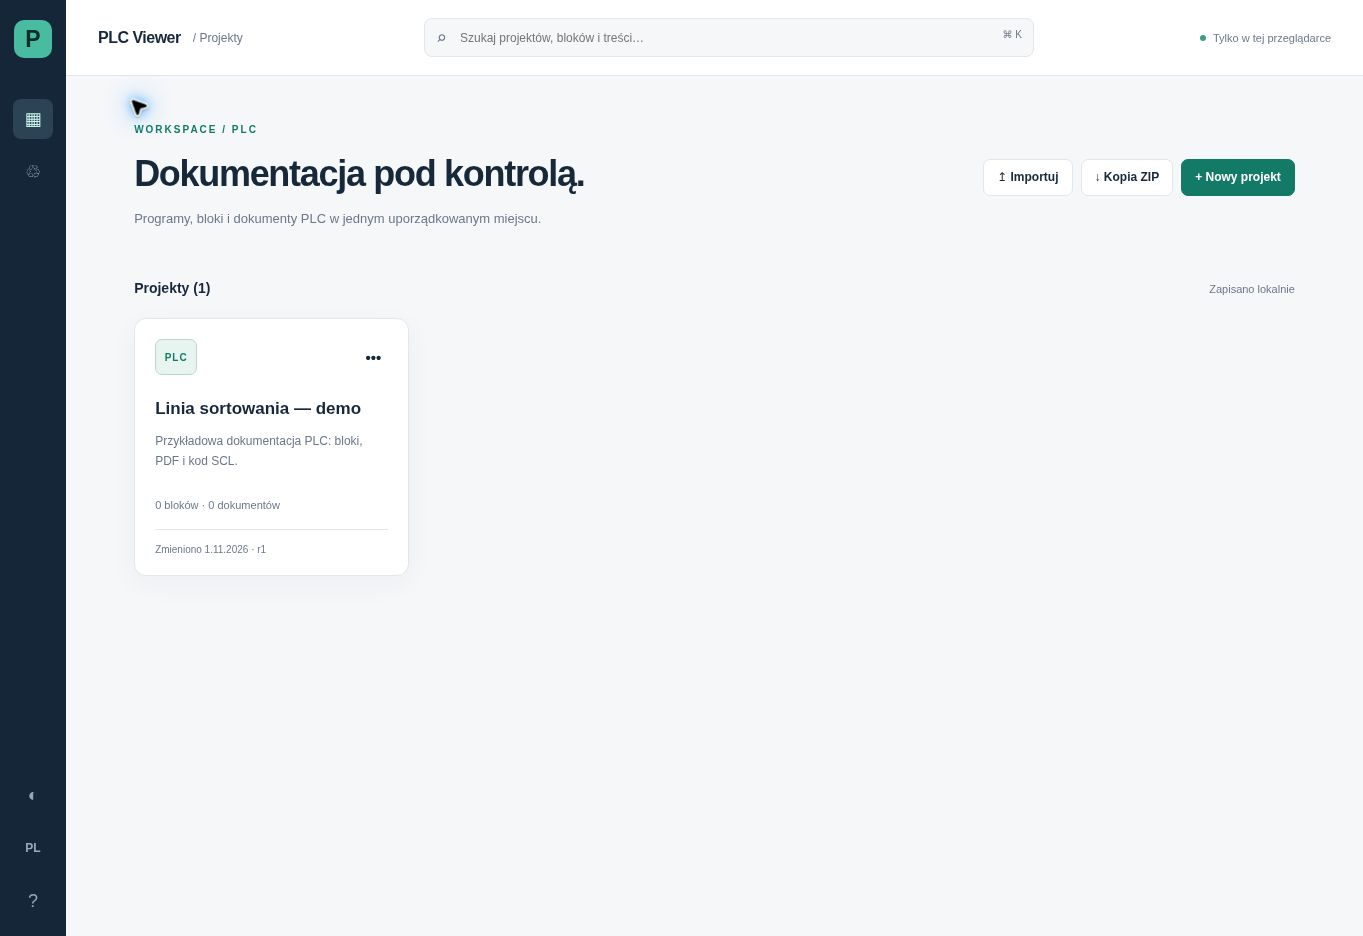
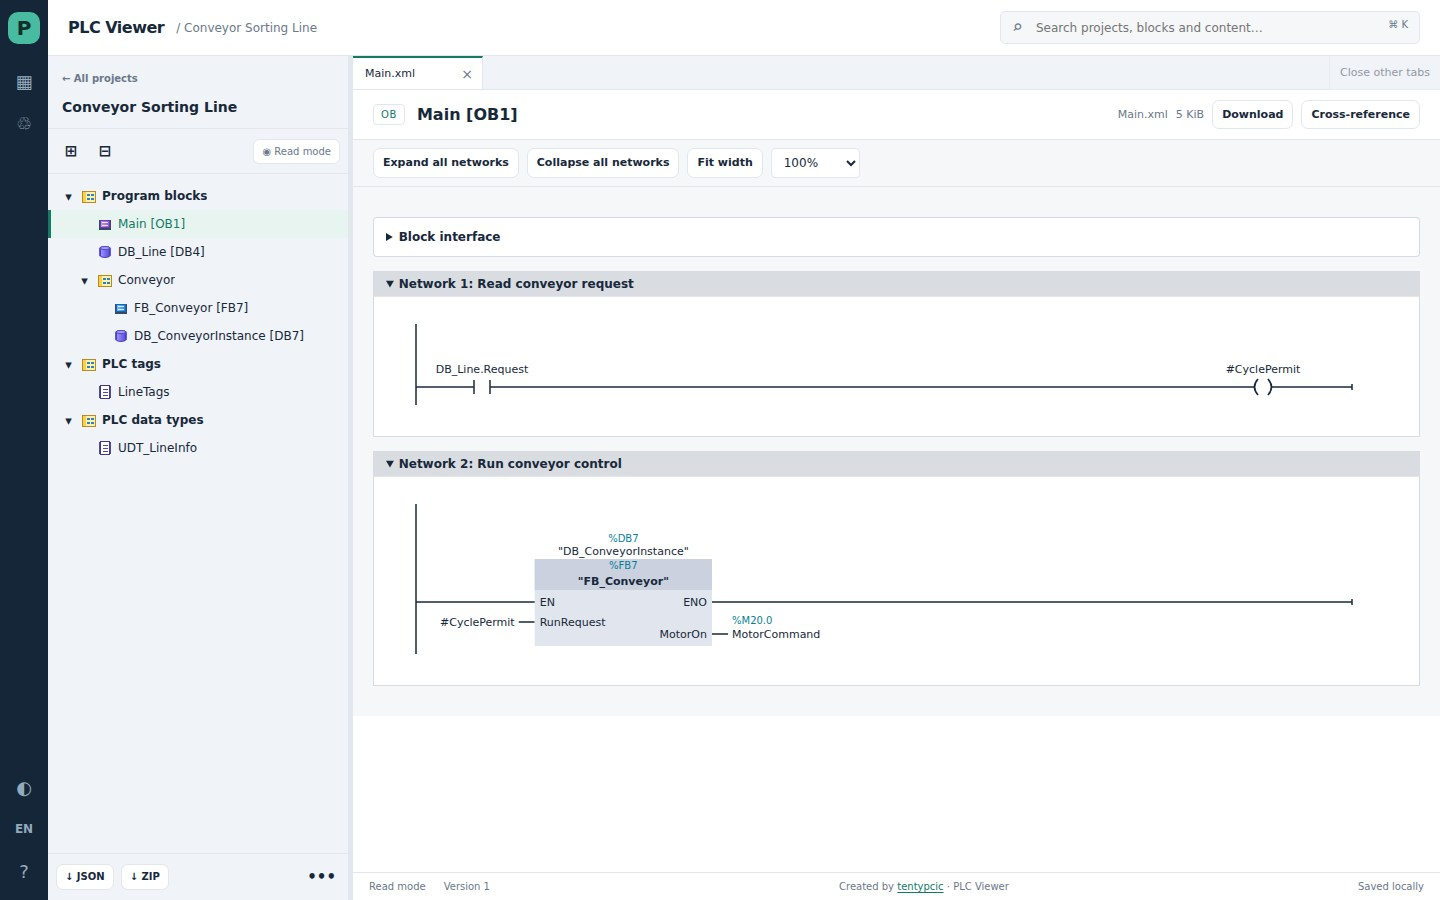
Showcase Siemens TIA Portal with a playable viewer demo

diff --git a/app/main.ts b/app/main.ts
@@ -6,6 +6,7 @@ import {
   matchingReferences,
   parseTia,
   tiaSymbolIndex,
+  importTia,
 } from "./tia";
 import {
   el,
@@ -254,6 +255,50 @@ async function openProject(id: string, nodeId?: string) {
   history.replaceState(null, "", url);
   remember();
   render();
+}
+async function openExample() {
+  if (pending) {
+    notify(t("unsaved"), true);
+    return;
+  }
+  const id = "3bf70ac3-a88d-4bf3-9461-2255fe67f9e6";
+  let project = await repo.get(id);
+  let example = project;
+  if (!example) {
+    const files = import.meta.glob<string>("../demo/**/*.xml", {
+      query: "?raw",
+      import: "default",
+    });
+    const entries = await Promise.all(
+      Object.entries(files).map(async ([path, load]) => [
+        path.slice("../demo/".length),
+        await load(),
+      ]),
+    );
+    example = importTia(Object.fromEntries(entries), "Conveyor Sorting Line");
+    example.id = id;
+    example.description =
+      "Synthetic TIA Portal example · LAD, block interfaces and cross-references.";
+  }
+  if (!project || project.deletedAt) {
+    delete example.deletedAt;
+    try {
+      await repo.save(example, project?.revision ?? null);
+    } catch (error) {
+      if (!(error instanceof Error) || error.message !== "CONFLICT") throw error;
+    }
+    project = await repo.get(id);
+  }
+  if (!project || project.deletedAt) throw Error(t("selectProject"));
+  await openProject(id);
+  const main = project.documents.find((doc) => doc.name === "Main.xml");
+  if (main) {
+    const conveyor = project.nodes.find(
+      (node) => node.kind === "group" && node.name === "Conveyor",
+    );
+    if (conveyor) expanded.add(conveyor.id);
+    openDoc(main.id);
+  }
 }
 function back() {
   if (pending) {
@@ -664,14 +709,8 @@ function help() {
       );
     }),
     button(t("example"), async () => {
-      const response = await fetch(new URL("projects.json", location.href));
-      if (!response.ok) throw Error(String(response.status));
-      const values = importData(await response.json());
-      await repo.writeMany(
-        values.map((project) => ({ project, expected: null })),
-      );
       d.close();
-      await refresh();
+      await openExample();
     }),
   );
   const d = modal(t("helpTitle"), body);
@@ -836,6 +875,7 @@ function renderCatalog(main: HTMLElement) {
   } else
     append(
       tools,
+      button(t("example"), openExample),
       button("↥ " + t("import"), importFile),
       button("↓ " + t("backup"), async () =>
         download("plc-viewer-backup.zip", await exportZip(projects, repo)),
@@ -1865,6 +1905,14 @@ async function boot() {
     const params = new URLSearchParams(location.search);
     const pid = params.get("pid");
     const slug = params.get("slug");
+    if (params.get("demo") === "1") {
+      if (params.get("lang") === "en") {
+        lang = "en";
+        t = translator(lang);
+      }
+      await openExample();
+      return;
+    }
     if (!pid && !slug && params.has("project")) {
       const token = params.get("project")!;
       let data: unknown;

diff --git a/README.md b/README.md
@@ -1,13 +1,19 @@
-# PLC Viewer
+# PLC Viewer for Siemens TIA Portal
 
-<p align="center"><img src="docs/screenshots/overview.jpg" alt="PLC Viewer project library" width="900"></p>
-<p align="center">Local PLC documentation, built with <strong>TypeScript, Vite, IndexedDB and PDF.js</strong>.<br><a href="https://tentypcic.github.io/plc_program_viewer_cms/">Open the app</a> · <a href="https://github.com/tentypcic/plc_program_viewer_cms/issues">Report Bug</a></p>
+<p align="center"><img src="docs/screenshots/overview.jpg" alt="PLC Viewer showing the Conveyor Sorting Line project tree and two LAD networks" width="900"></p>
+<p align="center">Browse Siemens TIA Portal exports in your browser. Explore project trees, LAD networks, block interfaces and cross-references.<br><a href="https://tentypcic.github.io/plc_program_viewer_cms/">Open the app</a> · <a href="https://tentypcic.github.io/plc_program_viewer_cms/?demo=1&amp;lang=en">Try the demo</a> · <a href="https://github.com/tentypcic/plc_program_viewer_cms/issues">Report Bug</a></p>
 
 ## 🧠 About The Project
 
-**PLC Viewer** develops PLC Programme Viewer CMS into a local library for Siemens TIA Portal documentation. Organize blocks and groups, read PDF/SCL, search documents and keep portable ZIP backups. The interface supports Polish and English.
+**PLC Viewer** is a browser-based viewer for Siemens TIA Portal Openness exports and related PLC documentation. Organize blocks and groups, read PDF/SCL, search documents and keep portable ZIP backups. The interface supports Polish and English.
 
-No backend, accounts or project uploads. User documentation stays in browser IndexedDB. The version 2 modernization is now included in `main`.
+No backend, accounts or project uploads. User documentation stays in browser IndexedDB.
+
+## Demo
+
+**Conveyor Sorting Line** is a synthetic example with an OB, an FB and its instance DB, a global DB, a UDT and a PLC tag table. **Try the demo** opens `Main [OB1]` directly. Double-click `FB_Conveyor` to follow the call, or click `#CyclePermit` to find its read and write references.
+
+The [demo XML files](demo) are authored for this viewer. They illustrate the format and have not been compiled in TIA Portal.
 
 ## 🛠 Features
 
